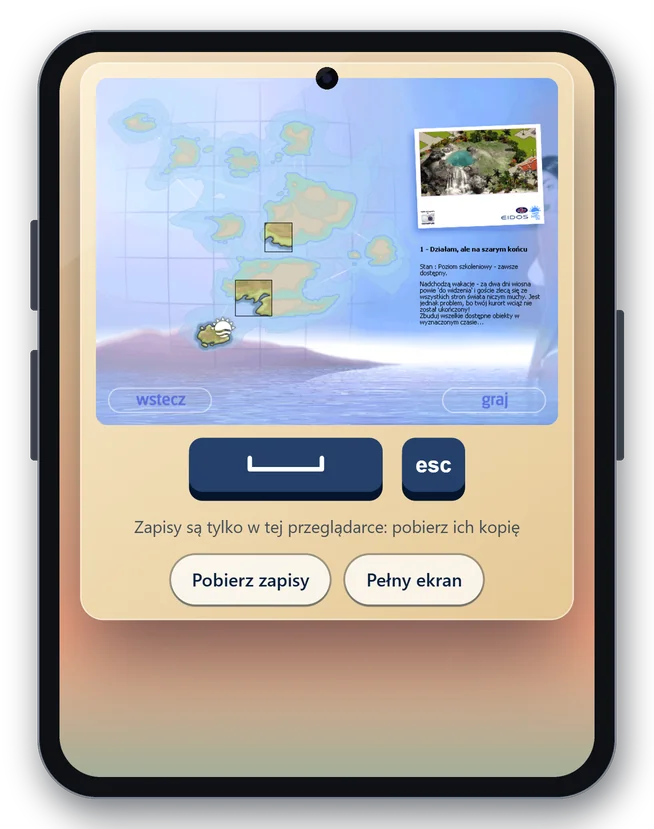
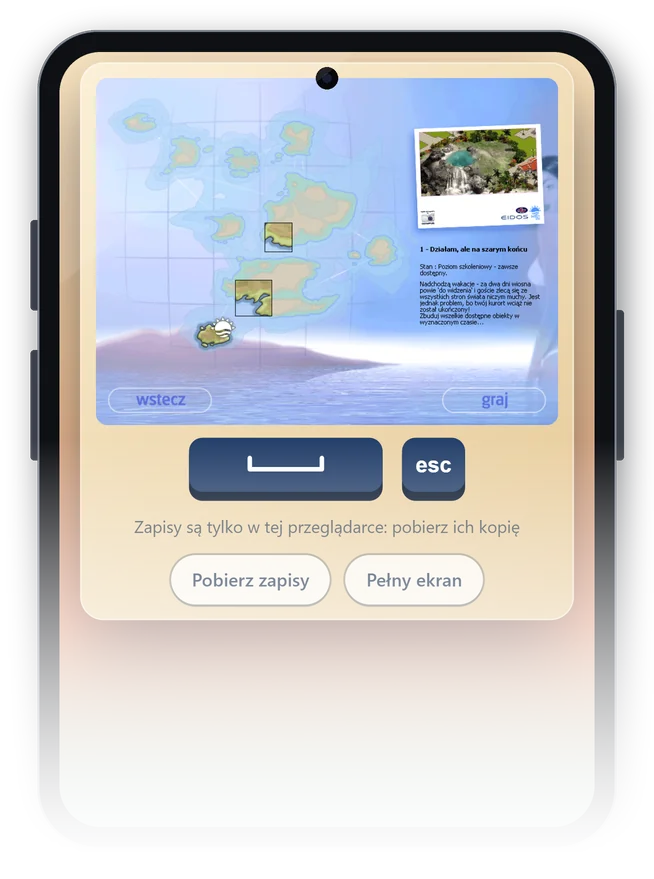
feat(site): fade the phone out at the bottom and make it larger
The phone is cut by a fade as if the rest were hidden, so it can be taller than the other screenshots without looking like a toy.

diff --git a/web/index.html b/web/index.html
@@ -170,10 +170,11 @@
     .steps li::before { content: counter(step); flex: none; width: 36px; height: 36px; border-radius: 50%; display: grid; place-items: center;
         font-weight: 700; color: var(--navy); background: var(--sun); }
     /* Each column's share is its image's width / height, so that all three come out equally tall without a crop. */
-    .shots { display: grid; grid-template-columns: 1.3345fr 1.3455fr 1.1696fr 0.7889fr; gap: 14px; align-items: start; }
+    .shots { display: grid; grid-template-columns: 1.3345fr 1.3455fr 1.1696fr 1.25fr; gap: 14px; align-items: start; }
     .shots figure { margin: 0; }
     .shots img { display: block; width: 100%; height: auto; border-radius: 12px; box-shadow: 0 10px 28px #06152c66; }
     .shots .phone img { border-radius: 0; box-shadow: none; }
+    .shots .phone figcaption { margin-top: -34px; position: relative; }
     .shots figcaption { margin-top: 6px; color: #fff; font-size: 14px; text-align: center; }
     .faq details { margin: 0 0 8px; padding: 0 18px; border-radius: 12px; background: #ffffffd9; }
     .faq summary { padding: 12px 0; font-weight: 600; cursor: pointer; }
@@ -316,7 +317,7 @@
         <figure><a href="screenshots/night.jpg"><img src="screenshots/night.jpg" alt="A night at the resort in OpenBeach" width="1097" height="816" loading="lazy"></a><figcaption data-t="shot1">A night at the resort</figcaption></figure>
         <figure><a href="screenshots/staff.jpg"><img src="screenshots/staff.jpg" alt="Managing the staff in OpenBeach" width="1094" height="819" loading="lazy"></a><figcaption data-t="shot2">Managing the staff</figcaption></figure>
         <figure><a href="screenshots/browser.jpg"><img src="screenshots/browser.jpg" alt="OpenBeach running the game in a browser tab" width="1193" height="1002" loading="lazy"></a><figcaption data-t="shot3">The game in your browser</figcaption></figure>
-        <figure class="phone"><img src="screenshots/phone.webp" alt="OpenBeach on a phone, with the Space and Esc keys under the game" width="654" height="829" loading="lazy"><figcaption data-t="phoneShot">The game on a phone</figcaption></figure>
+        <figure class="phone"><img src="screenshots/phone.webp" alt="OpenBeach on a phone, with the Space and Esc keys under the game" width="654" height="879" loading="lazy"><figcaption data-t="phoneShot">The game on a phone</figcaption></figure>
     </div>
 </section>
 <section class="faq hide-playing" id="faq">
